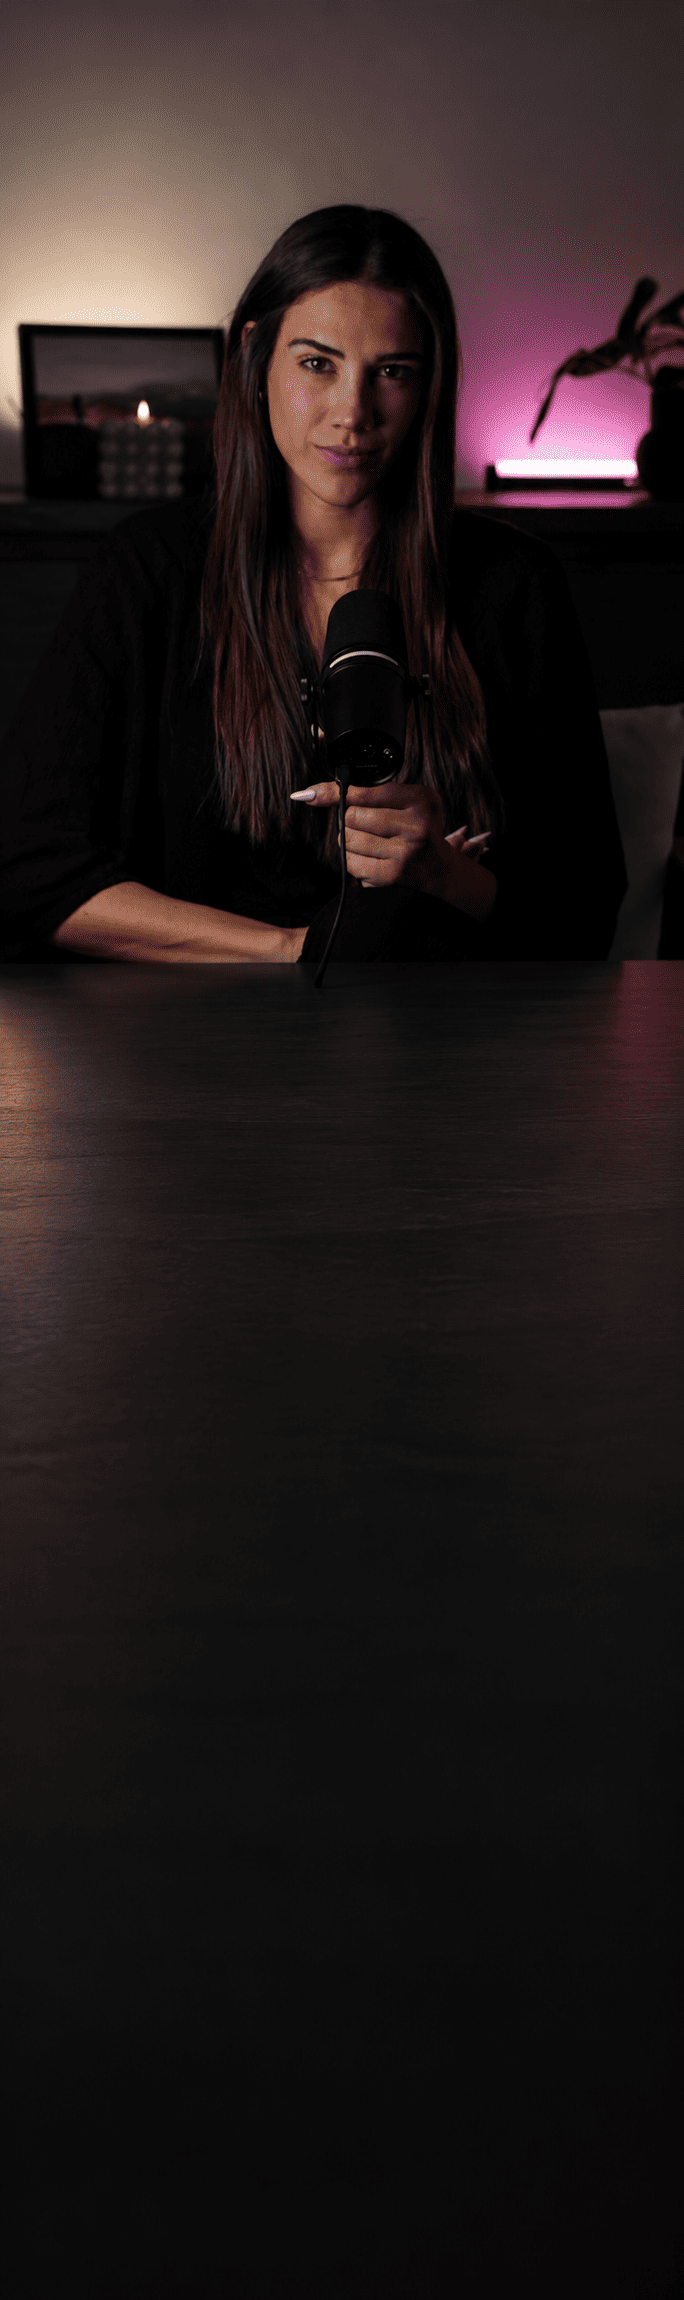
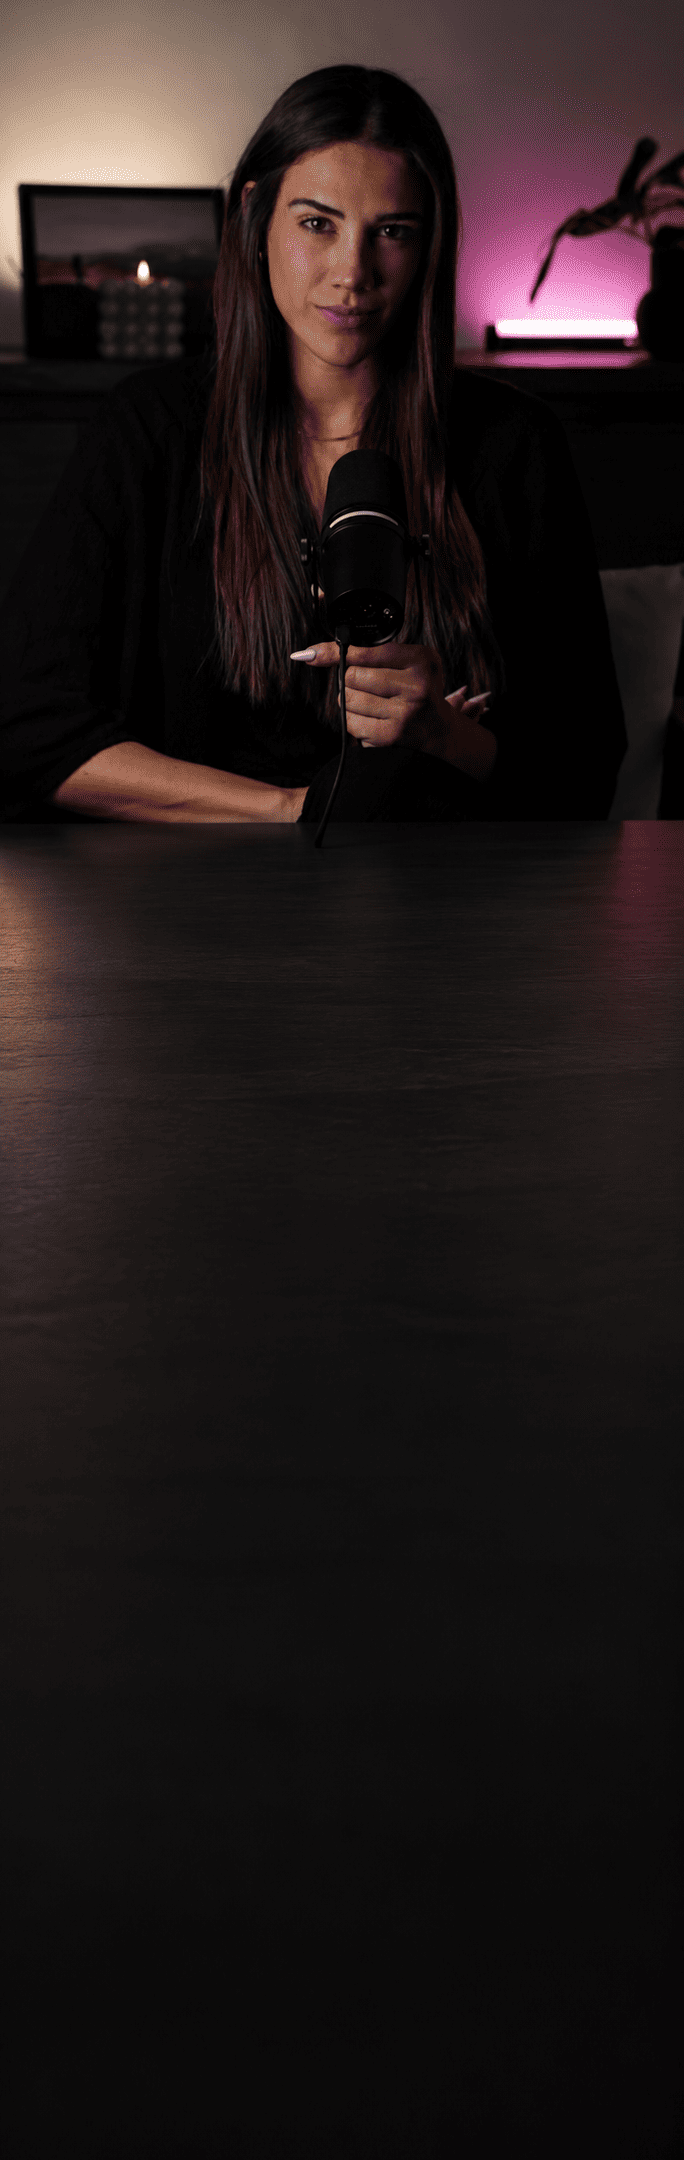
feat(registro): foto móvil del hero en color completo y nuevo punto de inicio del texto
La agencia reemplazó hero-manuela-mobile.png (684×2160, color completo en
lugar de 256 colores). Se regenera la copia optimizada y el texto del hero
móvil empieza donde termina la figura (pt 118vw, degradado ajustado).

Changed region(s): [[0.0, 0.0, 1.0, 0.5583], [0.8596, 0.3102, 0.9211, 0.3412]]

diff --git a/src/app/(registro)/_sections/Hero.tsx b/src/app/(registro)/_sections/Hero.tsx
@@ -35,7 +35,7 @@ export function Hero() {
           <source media="(min-width: 768px)" srcSet={desktop} />
           <img {...rest} srcSet={mobile} alt={rest.alt} className="object-cover object-top lg:object-[72%_center]" />
         </picture>
-        <div className="absolute inset-0 bg-[linear-gradient(180deg,rgb(30_20_18/0)_0%,rgb(30_20_18/0)_34%,rgb(30_20_18/0.82)_42%,var(--color-noche)_50%)] md:bg-[linear-gradient(180deg,rgb(30_20_18/0)_50%,var(--color-noche)_100%)] lg:bg-[linear-gradient(90deg,rgb(30_20_18/0.95)_0%,rgb(30_20_18/0.86)_30%,rgb(30_20_18/0.35)_52%,rgb(30_20_18/0)_66%)]" />
+        <div className="absolute inset-0 bg-[linear-gradient(180deg,rgb(30_20_18/0)_0%,rgb(30_20_18/0)_31%,rgb(30_20_18/0.82)_39%,var(--color-noche)_47%)] md:bg-[linear-gradient(180deg,rgb(30_20_18/0)_50%,var(--color-noche)_100%)] lg:bg-[linear-gradient(90deg,rgb(30_20_18/0.95)_0%,rgb(30_20_18/0.86)_30%,rgb(30_20_18/0.35)_52%,rgb(30_20_18/0)_66%)]" />
         <div className="absolute inset-x-0 bottom-0 hidden h-40 bg-[linear-gradient(0deg,rgb(30_20_18/0.75),rgb(30_20_18/0))] lg:block" />
       </div>
 
@@ -58,7 +58,7 @@ export function Hero() {
         className="absolute left-[54.5%] top-[69%] hidden size-24 text-rosa/85 lg:block"
       />
 
-      <div className="mx-auto flex max-w-content flex-col justify-center px-gutter pb-14 pt-[136vw] sm:px-gutter-lg md:pb-16 md:pt-[50vw] lg:min-h-[clamp(42rem,56vw,58rem)] lg:py-24">
+      <div className="mx-auto flex max-w-content flex-col justify-center px-gutter pb-14 pt-[118vw] sm:px-gutter-lg md:pb-16 md:pt-[50vw] lg:min-h-[clamp(42rem,56vw,58rem)] lg:py-24">
         <div className="max-w-[31rem]">
           <Logo className="w-36 text-crema md:w-44" />
           <Title as="h1" id="hero-titulo" lines={HERO.title} tone="oscuro" size="hero" className="mt-7 md:mt-9" />

diff --git a/docs/HANDOFF.md b/docs/HANDOFF.md
@@ -158,8 +158,9 @@ metadatos.
   "Imágenes"): hero escritorio y móvil, `quien-es-manuela` (1600 px), `espejo`
   (recorte cuadrado centrado en Manuela) y `relacion` (era un JPEG con extensión
   `.png`; la copia ya es `.jpg`). El logo, recortado y en PNG con transparencia.
-- Los PNG del hero son de 256 colores: en degradados oscuros puede haber
-  bandas. Si existen los originales en JPG, reemplazarlos.
+- El PNG móvil del hero se reemplazó el 2026-10-14 por una versión a color
+  completo (684×2160). El de escritorio sigue en 256 colores: en degradados
+  oscuros puede haber bandas; si existe el original en JPG, reemplazarlo.
 - No guardar aquí nada que no pueda ser público (contratos, datos personales,
   documentos internos).
 
